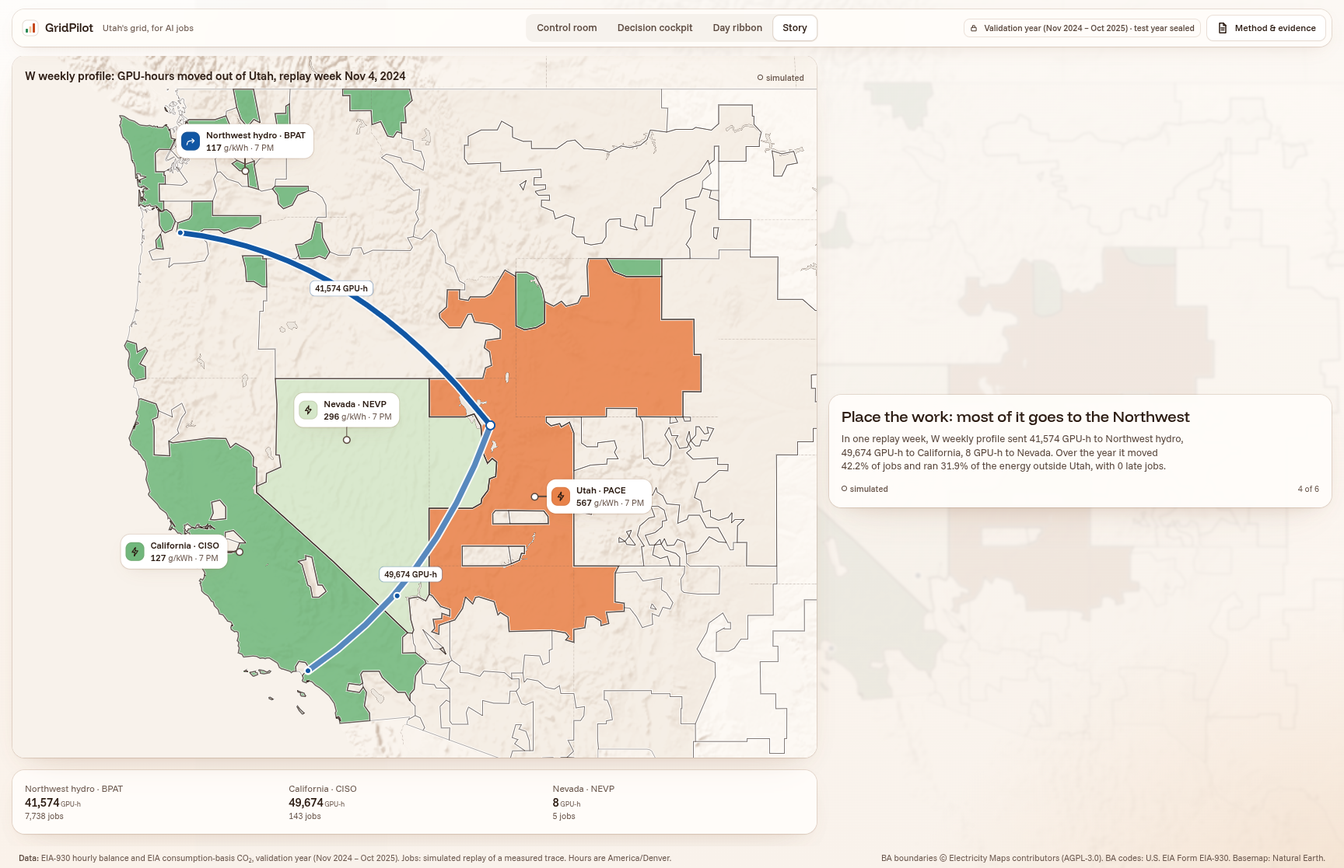
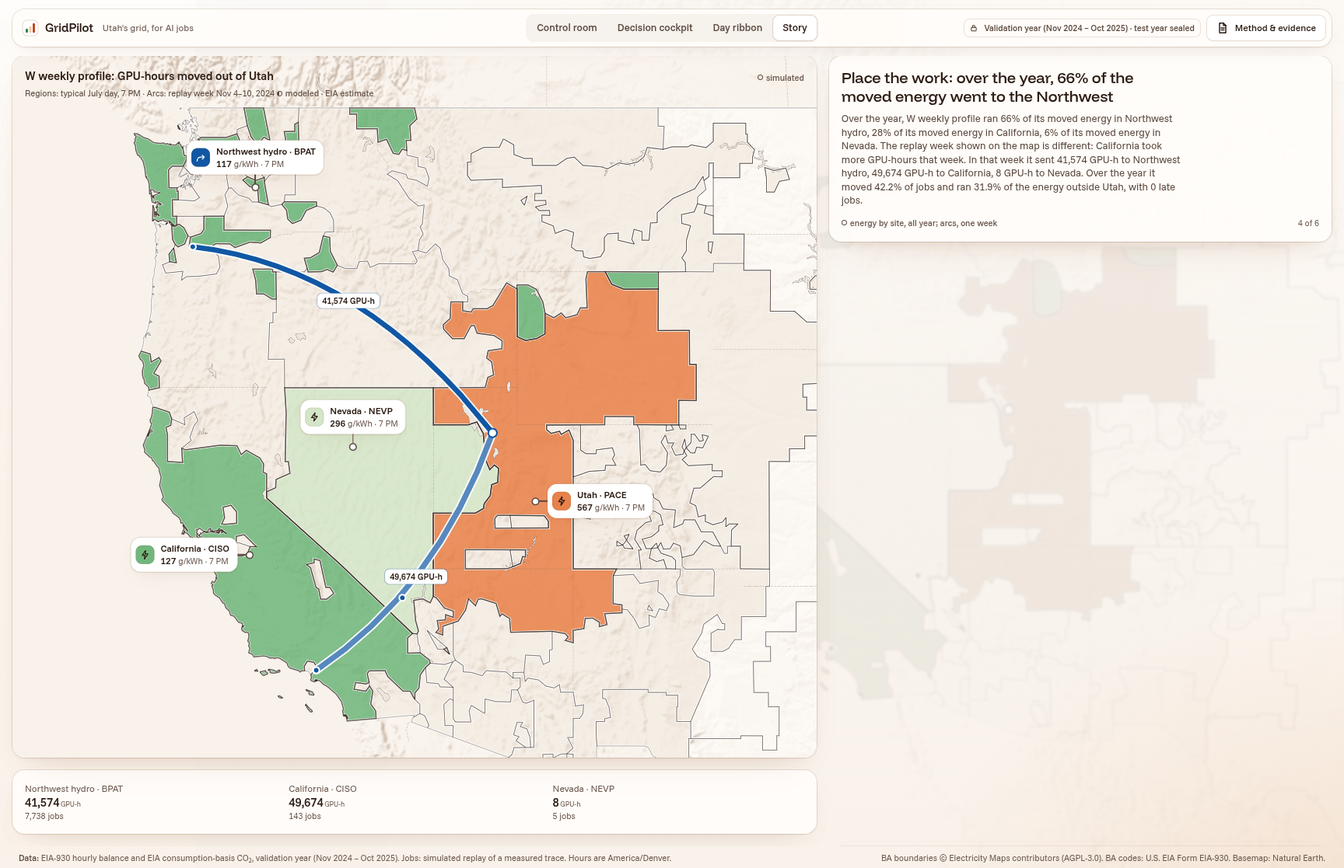
fix: dashboard fix round 2 (re-check N1-N15, #14, #19, #20)
- N1 Story 3 copy: the v2 rule was fixed before seeing the outcome, not registered in advance.
- N2 Story 4 title computed from W's execution_kwh_by_site over the year (66% to the
  Northwest), with a note that California took more GPU-hours in the replay week.
- N3/#20 right dock at 1440: the destinations section keeps >= 156 px; prose and key drop.
- N4 Story 5 shows every row at 1440 (tighter rows below 1000 px).
- #14 story cards anchored to the top; visuals shrink to their content.
- #19 labels: one collision pass (callouts, arc labels, cities, states, context codes, lake)
  against each other, the caption and the zoom buttons; no declutter slack under docks.
- N5 wait-without-gain wording; N6 Starts column in the placements table; N7 inset caption;
  N8 CISO callout inside the insets; N9 plain-language role titles; N10 rush band covers
  7-10 PM; N11 '0.06 GPU-hours'; N12 months derived from counts; N13 demand-envelope
  sentence; N14 no left-dock gap at 1440, Nevada strip visible at 1728; N15 forecast
  y-axis fits the data and is labelled.

Claude-Session: https://claude.ai/code/session_01DKgVtE8vSiTczfzdqoVFhE

diff --git a/web/src/views/Story.tsx b/web/src/views/Story.tsx
@@ -3,7 +3,8 @@ import { IntervalChart, Panel, PolicyTable } from '../components/charts';
 import { Ev, EvCI, Icon } from '../components/ui';
 import { DESTS, REGION, asNum, dayCurve, headline, plainLimitation, pname, type Core, type Json } from '../lib/data';
 import { argmax, cleanest, rushHours, spanLabel } from '../lib/derive';
-import { fmt, fmtDate, fmtHour, pct, pctRange } from '../lib/format';
+import { fmt, fmtDate, fmtHour, monthLabel, pct, pctRange } from '../lib/format';
+import { useViewport } from '../lib/useViewport';
 import { initialStep, useApp } from '../lib/store';
 import { WestMap, type ArcSpec } from '../map/WestMap';
 import { CarbonRibbon, ForecastPanel, LoadChart, YearHeat } from './Ribbon';
@@ -19,7 +20,21 @@ export function Story() {
   const jul = g.pace_july_weekday;
   const net: number[] = jul.net_load_mw.value;
   const k: number = g.pace_top100_net_load.k.value;
+  const cm: number[][] = g.pace_top100_net_load.counts_month_hour.value;
+  const hotMonths = g.months.filter((_: string, i: number) => cm[i].some((c) => c > 0));
+  const mName = (ym: string) => monthLabel(ym, true).split(' ')[0];
+  const monthSpan = hotMonths.length ? (hotMonths.length === 1 ? mName(hotMonths[0]) : `${mName(hotMonths[0])}–${mName(hotMonths[hotMonths.length - 1])}`) : '';
+  // N2: where W's moved (remote) execution energy went over the year
+  const byS = m.policies.W.metrics.execution_kwh_by_site as Record<string, { value: number }>;
+  const remote = DESTS.map((d) => [d, byS?.[d]?.value ?? 0] as const);
+  const remoteTot = remote.reduce((a, [, v]) => a + v, 0) || 1;
+  const topDest = [...remote].sort((a, b) => b[1] - a[1])[0];
+
   const box = useRef<HTMLDivElement>(null);
+  const ij: Json = data!.jobs.illustrative_job;
+  const w = data!.jobs.week.policies.W;
+  const wyear = m.policies.W.metrics;
+  const weekTop = [...w.arcs].sort((a: Json, b: Json) => b.gpu_h.value - a.gpu_h.value)[0];
   useEffect(() => {
     const st = initialStep ?? null;
     if (st && box.current) { const el = box.current.querySelector<HTMLElement>(`[data-step="${st}"]`); if (el) box.current.scrollTop = el.offsetTop - (box.current.clientHeight - el.offsetHeight) / 2; }
@@ -29,14 +44,12 @@ export function Story() {
     box.current?.querySelectorAll('[data-step]').forEach((s) => io.observe(s));
     return () => io.disconnect();
   }, [set]);
-  const ij: Json = data!.jobs.illustrative_job;
-  const w = data!.jobs.week.policies.W;
-  const wyear = m.policies.W.metrics;
+
   const top1 = wl.top.find((t: Json) => Math.abs(t.fraction.value - 0.01) < 1e-9) ?? wl.top[1];
   const steps: { t: string; body: React.ReactNode; ev: React.ReactNode }[] = [
     {
       t: "Utah's grid has a rush hour, and it comes after sunset",
-      body: <>On a July weekday demand peaks at {fmtHour(argmax(jul.demand_mw.value))}. Then the sun sets and solar drops away, so net load, the load the rest of the fleet must carry, keeps climbing to {fmtHour(argmax(net))} ({fmt(net[argmax(net)])} MW). All year, the {fmt(k)} highest net-load hours fall on June–September evenings, mostly {spanLabel(rush)}. The cleanest hours are {spanLabel(clean)}, while the sun is up.</>,
+      body: <>On a July weekday demand peaks at {fmtHour(argmax(jul.demand_mw.value))}. Then the sun sets and solar drops away, so net load, the load the rest of the fleet must carry, keeps climbing to {fmtHour(argmax(net))} ({fmt(net[argmax(net)])} MW). All year, the {fmt(k)} highest net-load hours fall on {monthSpan} evenings, mostly {spanLabel(rush)}. The cleanest hours are {spanLabel(clean)}, while the sun is up.</>,
       ev: <><Ev e="observed">load: EIA-930</Ev><EvCI /></>,
     },
     {
@@ -46,13 +59,13 @@ export function Story() {
     },
     {
       t: 'One job: stay, wait or move',
-      body: <>A {fmt(ij.gpus.value)}-GPU {ij.job_type} job of {ij.declared_duration_s.value < 3600 ? `${fmt(ij.declared_duration_s.value / 60, 1)} minutes` : `${fmt(ij.declared_duration_s.value / 3600, 1)} hours`} ({fmt(ij.declared_gpu_h.value, ij.declared_gpu_h.value < 1 ? 2 : 1)} GPU-h), arriving {fmtDate(ij.arrival, { month: 'short', day: 'numeric', hour: 'numeric', minute: '2-digit' })}. It may start up to {fmt(ij.max_delay_s.value / 3600)} h late. Moving it adds a transfer delay but lands it on a cleaner grid. It was picked by a rule registered in advance: the job at the GPU-hour-weighted median of the eligible flexible jobs.{ij.disclosure ? <details className="t-12 ink-3" style={{ marginTop: 8 }}><summary className="cursor-pointer fw-500">How this job was chosen (source text)</summary><span>{ij.disclosure}</span></details> : null}</>,
+      body: <>A {fmt(ij.gpus.value)}-GPU {ij.job_type} job of {ij.declared_duration_s.value < 3600 ? `${fmt(ij.declared_duration_s.value / 60, 1)} minutes` : `${fmt(ij.declared_duration_s.value / 3600, 1)} hours`} ({fmt(ij.declared_gpu_h.value, ij.declared_gpu_h.value < 1 ? 2 : 1)} GPU-h), arriving {fmtDate(ij.arrival, { month: 'short', day: 'numeric', hour: 'numeric', minute: '2-digit' })}. It may start up to {fmt(ij.max_delay_s.value / 3600)} h late. Moving it adds a transfer delay but lands it on a cleaner grid. It was picked by a rule fixed before seeing its outcome: the GPU-hour-weighted median of the eligible flexible jobs. The registered count-median job runs only 3 minutes; see how this job was chosen.{ij.disclosure ? <details className="t-12 ink-3" style={{ marginTop: 8 }}><summary className="cursor-pointer fw-500">How this job was chosen (source text)</summary><span>{ij.disclosure}</span></details> : null}</>,
       ev: <><Ev e="measured">job size</Ev><Ev e="modeled">option CO₂</Ev><Ev e="simulated">placements</Ev></>,
     },
     {
-      t: 'Place the work: most of it goes to the Northwest',
-      body: <>In one replay week, {pname('W')} sent {DESTS.map((d) => { const a = w.arcs.find((x: Json) => x.to === d); return a ? `${fmt(a.gpu_h.value)} GPU-h to ${REGION[d].name}` : null; }).filter(Boolean).join(', ')}. Over the year it moved {pct(wyear.moved_share_jobs.value)}% of jobs and ran {pct(wyear.remote_energy_share.value)}% of the energy outside Utah, with {fmt(wyear.late_jobs.value)} late jobs.</>,
-      ev: <Ev e="simulated" />,
+      t: `Place the work: over the year, ${pct(topDest[1] / remoteTot, 0)}% of the moved energy went to ${REGION[topDest[0]].name === 'Northwest hydro' ? 'the Northwest' : REGION[topDest[0]].name}`,
+      body: <>Over the year, {pname('W')} ran {remote.map(([d, v]) => `${pct(v / remoteTot, 0)}% of its moved energy in ${REGION[d].name}`).join(', ')}. {weekTop && weekTop.to !== topDest[0] ? <>The replay week shown on the map is different: {REGION[weekTop.to as Core].name} took more GPU-hours that week. </> : null}In that week it sent {DESTS.map((d) => { const a = w.arcs.find((x: Json) => x.to === d); return a ? `${fmt(a.gpu_h.value)} GPU-h to ${REGION[d].name}` : null; }).filter(Boolean).join(', ')}. Over the year it moved {pct(wyear.moved_share_jobs.value)}% of jobs and ran {pct(wyear.remote_energy_share.value)}% of the energy outside Utah, with {fmt(wyear.late_jobs.value)} late jobs.</>,
+      ev: <Ev e="simulated">energy by site, all year; arcs, one week</Ev>,
     },
     {
       t: 'The count: moving beats waiting',
@@ -72,9 +85,9 @@ export function Story() {
           <div className="sticky" style={{ top: 0, height: 'calc(100vh - 72px - 28px - 16px)' }}>
             <Visual step={step} rush={rush} clean={clean} curve={curve} />
           </div>
-          <div style={{ paddingBottom: '40vh' }}>
+          <div style={{ paddingBottom: '20vh' }}>
             {steps.map((s, i) => (
-              <div key={i} id={`story-${i + 1}`} data-step={i + 1} className="flex flex-col justify-center" style={{ minHeight: 'calc(100vh - 100px)' }}>
+              <div key={i} id={`story-${i + 1}`} data-step={i + 1} className="flex flex-col justify-start" style={{ minHeight: 'calc(100vh - 100px)', paddingTop: 0 }}>
                 <Panel style={{ opacity: step === i + 1 ? 1 : 0.55, transition: 'opacity 160ms var(--ease)' }}>
                   <h2 className="t-20" style={{ margin: 0 }}>{s.t}</h2>
                   <p className="t-13 ink-2" style={{ margin: '8px 0 0', maxWidth: '62ch' }}>{s.body}</p>
@@ -121,7 +134,7 @@ function JobCard() {
   const stay = acts.find((a) => a.kind === 'stay');
   const pl = ij.placements as Record<string, Json>;
   return (
-    <Panel className="h-full flex flex-col" style={{ gap: 16 }}>
+    <Panel className="flex flex-col" style={{ gap: 16, maxHeight: '100%', overflow: 'auto' }}>
       <div className="flex items-baseline justify-between"><span className="t-15">Job {ij.job_uid}: its options</span><Ev e="modeled">option CO₂</Ev></div>
       <table className="tbl">
         <thead><tr><th>Option</th><th>Starts (Denver)</th><th>Start delay (transfer)</th><th>CO₂ <span className="fw-400">kg</span></th><th>vs staying</th></tr></thead>
@@ -141,7 +154,7 @@ function JobCard() {
       <hr className="rule" />
       <div className="flex items-baseline justify-between"><span className="t-15">Where each policy put it</span><Ev e="simulated" /></div>
       <table className="tbl">
-        <thead><tr><th>Policy</th><th>Decision</th><th>CO₂ <span className="fw-400">kg</span></th></tr></thead>
+        <thead><tr><th>Policy</th><th>Decision</th><th>Starts (Denver)</th><th>CO₂ <span className="fw-400">kg</span></th></tr></thead>
         <tbody>
           {Object.keys(pl).map((p) => {
             const v = pl[p];
@@ -149,6 +162,7 @@ function JobCard() {
               <tr key={p}>
                 <td title={m.policies?.[p]?.note}>{pname(p)}</td>
                 <td>{v.site === 'PACE' ? (v.moved ? 'waited in Utah' : 'stayed in Utah') : `moved to ${REGION[v.site as Core]?.name ?? v.site}`}</td>
+                <td>{v.start ? fmtDate(v.start, { month: 'short', day: 'numeric', hour: 'numeric', minute: '2-digit' }) : '–'}</td>
                 <td>{fmt(v.co2_kg.value, v.co2_kg.value < 1 ? 3 : 1)}</td>
               </tr>
             );
@@ -173,11 +187,12 @@ function PlaceWork() {
     <div className="grid h-full" style={{ gridTemplateRows: 'minmax(0,1fr) auto', gap: 16 }}>
       <Panel className="relative overflow-hidden" style={{ padding: 0 }}>
         <WestMap id="map-story" variant="inset" interactive={false} ci={ci} context={context} hourLabel={fmtHour(hour)} arcs={arcs}
-          bounds={[[-124.6, 31.8], [-104.5, 48.9]]} padding={{ top: 48, bottom: 12, left: 12, right: 12 }} />
+          bounds={[[-124.6, 31.8], [-104.0, 48.9]]} padding={{ top: 72, bottom: 16, left: 150, right: 120 }} />
         <div className="absolute flex items-baseline justify-between gap-2" style={{ left: 16, right: 16, top: 16 }}>
-          <span className="t-15">{pname('W')}: GPU-hours moved out of Utah, replay week {fmtDate(data!.jobs.week.start, { month: 'short', day: 'numeric', year: 'numeric' })}</span>
+          <span className="t-15">{pname('W')}: GPU-hours moved out of Utah</span>
           <Ev e="simulated" />
         </div>
+        <div className="absolute t-11 ink-2" style={{ left: 16, top: 40 }}>Regions: typical {monthLabel(month, true).split(' ')[0]} day, {fmtHour(hour)} · Arcs: replay week {fmtDate(data!.jobs.week.start, { month: 'short', day: 'numeric' })}–{fmtDate(new Date(new Date(data!.jobs.week.end).getTime() - 1).toISOString(), { day: 'numeric' })}, {fmtDate(data!.jobs.week.start, { year: 'numeric' })} <EvCI /></div>
       </Panel>
       <Panel>
         <div className="grid t-13" style={{ gridTemplateColumns: 'repeat(3, minmax(0,1fr))', gap: 16 }}>
@@ -193,10 +208,11 @@ function PlaceWork() {
 function Count() {
   const { data } = useApp();
   const m = data!.metrics, wl = data!.workload;
+  const tight = useViewport().h < 1000;
   return (
-    <Panel className="h-full flex flex-col" style={{ gap: 12 }}>
+    <Panel className={`flex flex-col ${tight ? 'tight' : ''}`} style={{ gap: tight ? 8 : 12, maxHeight: '100%', overflow: 'auto' }}>
       <span className="t-15">Saving in attributed CO₂ vs U local (stay in Utah), with 95% intervals</span>
-      <IntervalChart m={m} rows={['G', 'S', 'K', 'W', 'L', 'H', 'W_time', 'L_time']} rowH={26} />
+      <IntervalChart m={m} rows={['G', 'S', 'K', 'W', 'L', 'H', 'W_time', 'L_time']} rowH={tight ? 20 : 26} />
       <div className="t-12 ink-3">Filled dots: the four placement policies. Open dots: {pname('G')}, the two wait-only runs, and the dashed {pname('H')}. <Ev e="simulated" /></div>
       <div style={{ overflowX: 'auto' }}><PolicyTable m={m} /></div>
       <hr className="rule" />
@@ -210,7 +226,7 @@ function Count() {
             ))}
           </tbody>
         </table>
-        <div className="t-12 ink-3" style={{ marginTop: 4 }}>{pct(wl.share_jobs_under_1_gpu_h.value, 0)}% of jobs use under 1 GPU-hour; the median job uses {fmt(wl.median_gpu_h.value, 2)}. <Ev e="measured">sizes</Ev> <Ev e="simulated">energy and saving</Ev></div>
+        <div className="t-12 ink-3" style={{ marginTop: 4 }}>{pct(wl.share_jobs_under_1_gpu_h.value, 0)}% of jobs use under 1 GPU-hour; the median job uses {fmt(wl.median_gpu_h.value, 2)} GPU-hours. <Ev e="measured">sizes</Ev> <Ev e="simulated">energy and saving</Ev></div>
       </div>
     </Panel>
   );
@@ -220,7 +236,7 @@ function Limits() {
   const { data } = useApp();
   const lim: string[] = data!.manifest.limitations;
   return (
-    <Panel className="h-full flex flex-col" style={{ gap: 12, overflow: 'auto' }}>
+    <Panel className="flex flex-col" style={{ gap: 12, overflow: 'auto', maxHeight: '100%' }}>
       <span className="t-15">What the result does not say</span>
       <ul className="t-13" style={{ margin: 0, paddingLeft: 16, columns: 2, columnGap: 32 }}>
         {lim.map((l) => <li key={l} style={{ marginBottom: 8, breakInside: 'avoid' }}>{plainLimitation(l)}</li>)}

diff --git a/web/src/views/Ribbon.tsx b/web/src/views/Ribbon.tsx
@@ -58,30 +58,30 @@ export function Ribbon() {
 
 export function LoadChart({ rush, clean, dem, net, sol }: { rush: [number, number]; clean: [number, number]; dem: number[]; net: number[]; sol: number[] }) {
   const option = useMemo(() => {
-    const hours = Array.from({ length: 24 }, (_, i) => fmtHour(i));
+    const at = (a: number[]) => a.map((v, i) => [i + 0.5, v]);
     const pk = argmax(net), dk = argmax(dem);
     const ymax = Math.ceil((Math.max(...dem) + 1500) / 3000) * 3000;
     const yb = ymax * 0.94, tick = ymax * 0.03;
     const sk = sol.indexOf(Math.max(...sol));
     return {
       grid: { left: LX, right: RX, top: 16, bottom: 8 },
-      xAxis: { type: 'category', data: hours, boundaryGap: true, axisLabel: { show: false }, axisLine: { show: false } },
+      xAxis: { type: 'value', min: 0, max: 24, axisLabel: { show: false }, axisLine: { show: false }, splitLine: { show: false }, axisPointer: { label: { show: false } } },
       yAxis: { type: 'value', min: 0, max: ymax, interval: 3000, axisLabel: { formatter: (v: number) => (v ? `${v / 1000}k` : '0') } },
-      tooltip: { trigger: 'axis', valueFormatter: (v: number) => `${fmt(v)} MW` },
+      tooltip: { trigger: 'axis', valueFormatter: (v: number) => `${fmt(v)} MW`, formatter: (ps: { value: [number, number]; seriesName: string; marker: string }[]) => `${fmtHour(Math.floor(ps[0].value[0]))}<br/>${ps.map((q) => `${q.marker}${q.seriesName} ${fmt(q.value[1])} MW`).join('<br/>')}` },
       series: [
-        { name: 'Solar', type: 'line', data: sol.map((v) => Math.max(0, v)), areaStyle: { color: C.solar, opacity: 0.8 }, lineStyle: { width: 0 }, symbol: 'none', z: 1,
-          markPoint: { symbol: 'circle', symbolSize: 0, label: { show: true, formatter: 'Solar', color: C.solarInk, fontSize: 12, fontWeight: 600, position: 'inside' }, data: [{ coord: [sk, Math.max(...sol) * 0.45] }] },
-          markArea: { silent: true, itemStyle: { color: 'rgba(234,223,211,.45)' }, label: { show: true, position: 'insideTop', color: C.ink, fontSize: 11, fontWeight: 600, formatter: `Rush ${spanLabel(rush)}` }, data: [[{ xAxis: rush[0] }, { xAxis: rush[1] - 1 }]] } },
-        { name: 'Demand', type: 'line', data: dem, lineStyle: { color: C.ink3, width: 1.5 }, symbol: 'none', z: 3, endLabel: { show: true, formatter: 'Demand', color: C.ink2, fontSize: 12, offset: [8, 0] },
-          markPoint: { symbol: 'circle', symbolSize: 7, itemStyle: { color: C.ink3, borderColor: '#fff', borderWidth: 2 }, label: { show: true, position: 'bottom', color: C.ink2, fontSize: 11, formatter: `Demand peaks ${fmtHour(dk)}` }, data: [{ coord: [dk, dem[dk]] }] } },
-        { name: 'Net load', type: 'line', data: net, lineStyle: { color: C.ink, width: 2.25 }, symbol: 'none', z: 4, endLabel: { show: true, formatter: 'Net load', color: C.ink, fontSize: 12, fontWeight: 600, offset: [8, 0] },
-          markPoint: { symbol: 'circle', symbolSize: 8, itemStyle: { color: C.ink, borderColor: '#fff', borderWidth: 2 }, label: { show: true, position: 'left', distance: 8, color: C.ink, fontSize: 11, fontWeight: 600, formatter: `Net load peaks ${fmtHour(pk)} · ${fmt(net[pk])} MW` }, data: [{ coord: [pk, net[pk]] }] },
+        { name: 'Solar', type: 'line', data: at(sol.map((v) => Math.max(0, v))), areaStyle: { color: C.solar, opacity: 0.8 }, lineStyle: { width: 0 }, symbol: 'none', z: 1,
+          markPoint: { symbol: 'circle', symbolSize: 0, label: { show: true, formatter: 'Solar', color: C.solarInk, fontSize: 12, fontWeight: 600, position: 'inside' }, data: [{ coord: [sk + 0.5, Math.max(...sol) * 0.45] }] },
+          markArea: { silent: true, itemStyle: { color: 'rgba(234,223,211,.45)' }, label: { show: true, position: 'insideTop', color: C.ink, fontSize: 11, fontWeight: 600, formatter: `Rush ${spanLabel(rush)}` }, data: [[{ xAxis: rush[0] }, { xAxis: rush[1] }]] } },
+        { name: 'Demand', type: 'line', data: at(dem), lineStyle: { color: C.ink3, width: 1.5 }, symbol: 'none', z: 3, endLabel: { show: true, formatter: 'Demand', color: C.ink2, fontSize: 12, offset: [8, 0] },
+          markPoint: { symbol: 'circle', symbolSize: 7, itemStyle: { color: C.ink3, borderColor: '#fff', borderWidth: 2 }, label: { show: true, position: 'bottom', color: C.ink2, fontSize: 11, formatter: `Demand peaks ${fmtHour(dk)}` }, data: [{ coord: [dk + 0.5, dem[dk]] }] } },
+        { name: 'Net load', type: 'line', data: at(net), lineStyle: { color: C.ink, width: 2.25 }, symbol: 'none', z: 4, endLabel: { show: true, formatter: 'Net load', color: C.ink, fontSize: 12, fontWeight: 600, offset: [8, 0] },
+          markPoint: { symbol: 'circle', symbolSize: 8, itemStyle: { color: C.ink, borderColor: '#fff', borderWidth: 2 }, label: { show: true, position: 'left', distance: 8, color: C.ink, fontSize: 11, fontWeight: 600, formatter: `Net load peaks ${fmtHour(pk)} · ${fmt(net[pk])} MW` }, data: [{ coord: [pk + 0.5, net[pk]] }] },
           // the cleanest stretch as a bracket, so it never tints the data
           markLine: { silent: true, symbol: 'none', lineStyle: { color: C.ink3, width: 1, type: 'solid' }, label: { show: false },
             data: [
-              [{ coord: [clean[0], yb], label: { show: true, position: 'middle', formatter: `Cleanest 8 hours ${spanLabel(clean)}`, color: C.ink, fontSize: 11, fontWeight: 600, distance: 4 } }, { coord: [clean[1] - 1, yb] }],
+              [{ coord: [clean[0], yb], label: { show: true, position: 'middle', formatter: `Cleanest 8 hours ${spanLabel(clean)}`, color: C.ink, fontSize: 11, fontWeight: 600, distance: 4 } }, { coord: [clean[1], yb] }],
               [{ coord: [clean[0], yb] }, { coord: [clean[0], yb - tick] }],
-              [{ coord: [clean[1] - 1, yb] }, { coord: [clean[1] - 1, yb - tick] }],
+              [{ coord: [clean[1], yb] }, { coord: [clean[1], yb - tick] }],
             ] } },
       ],
     };
@@ -129,9 +129,10 @@ export function ForecastPanel() {
     const style: Record<string, [string, number[] | 'solid', number]> = { K: [C.ink3, [1, 3], 1.5], W: [C.ink3, [5, 3], 1.5], L: [C.ink2, 'solid', 1.5] };
     const L: (number | null)[] = fr.forecasts.L.value;
     return {
-      grid: { left: 40, right: 12, top: 12, bottom: 24 },
+      grid: { left: 56, right: 12, top: 12, bottom: 24 },
       xAxis: { type: 'category', data: lab, boundaryGap: false, axisLabel: { interval: 23, formatter: (v: string) => v.split(',')[0] } },
-      yAxis: { type: 'value', min: 0, max: 900, interval: 300 },
+      yAxis: { type: 'value', min: (e: { min: number }) => Math.floor((e.min - 20) / 200) * 200, max: (e: { max: number }) => Math.ceil((e.max + 20) / 200) * 200, interval: 200,
+        name: 'g CO₂/kWh', nameLocation: 'middle', nameRotate: 90, nameGap: 40, nameTextStyle: { color: C.ink3, fontSize: 11 } },
       tooltip: { trigger: 'axis', valueFormatter: (v: number) => (v == null ? '–' : `${Math.round(v)} g/kWh`) },
       series: [
         // L ± its week MAE, drawn as a stacked band (the lower edge is invisible)
@@ -152,7 +153,6 @@ export function ForecastPanel() {
         <Ev e="forecast" /><EvCI extra="actual" /><Ev e="measured">errors measured</Ev>
       </div>
       <div className="flex flex-wrap gap-x-4 gap-y-1 t-11 ink-2" style={{ marginTop: 4 }} aria-hidden="true">
-        <span>g CO₂/kWh:</span>
         <span className="flex items-center gap-1"><svg width="20" height="6"><line x1="0" x2="20" y1="3" y2="3" stroke={C.ink} strokeWidth="2" /></svg>actual</span>
         <span className="flex items-center gap-1"><svg width="20" height="8"><rect x="0" y="0" width="20" height="8" fill="rgba(91,73,63,.12)" /><line x1="0" x2="20" y1="4" y2="4" stroke={C.ink2} strokeWidth="1.5" /></svg>{pname('L')} ± {fmt(maeL)}</span>
         <span className="flex items-center gap-1"><svg width="20" height="6"><line x1="0" x2="20" y1="3" y2="3" stroke={C.ink3} strokeWidth="1.5" strokeDasharray="5 3" /></svg>{pname('W')}</span>

diff --git a/web/src/views/ControlRoom.tsx b/web/src/views/ControlRoom.tsx
@@ -62,15 +62,15 @@ function ResultDock({ compact }: { compact: boolean }) {
           <span className="fw-500 whitespace-nowrap" style={{ color: C.ink }}>Saving vs U, 95% interval</span>
           <span className="t-11 ink-3 whitespace-nowrap">{fmt(h.nWeeks.value as number)} weeks <Ev e="simulated" /></span>
         </div>
-        <IntervalChart m={m} rows={['S', 'K', 'W', 'L', 'W_time', 'L_time']} stacked rowH={compact ? 26 : 30} />
+        <IntervalChart m={m} rows={['S', 'K', 'W', 'L', 'W_time', 'L_time']} stacked rowH={26} />
       </div>
       <hr className="rule" />
-      {compact ? <div style={{ flex: 1 }} /> : (<>
+      {compact ? null : (<>
       <div className="flex items-baseline justify-between" style={{ padding: '12px 16px 4px' }}>
         <span className="t-15 whitespace-nowrap">The four sites, {fmtHour(hour)}</span>
         <EvCI />
       </div>
-      <ul className="flex flex-col" style={{ listStyle: 'none', margin: 0, padding: '0 8px 8px', gap: 2, overflow: 'auto', flex: 1 }}>
+      <ul className="flex flex-col" style={{ listStyle: 'none', margin: 0, padding: '0 8px 4px', gap: 0, overflow: 'auto', flex: 1 }}>
         {CORE.map((c) => {
           const curve = dayCurve(g, c, month);
           const ym = asNum(yearMean(g, c))!;
@@ -104,7 +104,7 @@ function MapCaption({ left, bottom }: { left: number; bottom: number }) {
   const { data, hour, month, arcPolicy } = useApp();
   const wk = data!.jobs.week;
   return (
-    <div className="pointer-events-auto absolute panel over-map t-11 ink-2" style={{ left, bottom, padding: '8px 12px', borderRadius: 12, maxWidth: 440 }}>
+    <div data-map-avoid className="pointer-events-auto absolute panel over-map t-11 ink-2" style={{ left, bottom, padding: '8px 12px', borderRadius: 12, maxWidth: 440 }}>
       The four sites are coloured by carbon at {fmtHour(hour)} on a typical {monthLabel(month, true)} day <EvCI />; other regions are context only.
       Arcs: GPU-hours {pname(arcPolicy)} moved out of Utah in the replay week {weekSpan(wk)}, wider for more <Ev e="simulated" />. Scroll or pinch to zoom; drag to pan.
     </div>
@@ -148,18 +148,18 @@ function RouterDock({ compact }: { compact: boolean }) {
   const slots = data!.manifest.assumptions;
   return (
     <Panel over className="flex flex-col" style={{ height: '100%', padding: 0, overflow: 'hidden' }}>
-      <div style={{ padding: 16 }}>
+      <div style={{ padding: compact ? '12px 16px 8px' : 16, overflow: 'auto', minHeight: 0, flexShrink: 1 }}>
         <h2 className="t-15" style={{ margin: 0 }}>Every policy did the same work, with no late jobs</h2>
-        <div className="t-12 ink-2" style={{ marginTop: 4 }}>Attributed CO₂, {fmt(m.cohort.n_jobs.value)} jobs, {fmt(m.cohort.declared_gpu_h.value / 1e6, 2)} M GPU-h. U − policy above zero: the policy emits less.</div>
-        <div className="t-11 ink-3" style={{ marginTop: 4 }}>Key: S, K, W, L and H may move or delay work; G is carbon-blind; wait-only may not move. Hover a name for its rule.</div>
+        {!compact && <div className="t-12 ink-2" style={{ marginTop: 4 }}>Attributed CO₂, {fmt(m.cohort.n_jobs.value)} jobs, {fmt(m.cohort.declared_gpu_h.value / 1e6, 2)} M GPU-h. U − policy above zero: the policy emits less.</div>}
+        {!compact && <div className="t-11 ink-3" style={{ marginTop: 4 }}>Key: S, K, W, L and H may move or delay work; G is carbon-blind; wait-only may not move. Hover a name for its rule.</div>}
         <div style={{ marginTop: 8 }}><PolicyTable m={m} compact testId="policy-table-compact" /></div>
         <div className="flex gap-3 flex-wrap" style={{ marginTop: 8 }}><Ev e="simulated">outcomes simulated</Ev><Ev e="measured">job sizes measured</Ev></div>
       </div>
       <hr className="rule" />
-      <div style={{ padding: 16, flex: 1, minHeight: 0, overflow: 'auto' }}>
+      <div style={{ padding: compact ? '12px 16px' : 16, flex: compact ? 'none' : 1, minHeight: compact ? 156 : 140, overflow: 'auto' }}>
         <div className="flex items-center justify-between gap-2">
-          <h2 className="t-15" style={{ margin: 0 }}>Where the work went</h2>
-          <select className="sel" aria-label="Policy shown on the map" value={arcPolicy} onChange={(e) => set({ arcPolicy: e.target.value as 'S' | 'W' | 'L' })} title={pnote(m, arcPolicy)}>
+          <h2 className="t-15 whitespace-nowrap" style={{ margin: 0 }}>Where the work went</h2>
+          <select className="sel" style={{ maxWidth: '55%', minWidth: 0 }} aria-label="Policy shown on the map" value={arcPolicy} onChange={(e) => set({ arcPolicy: e.target.value as 'S' | 'W' | 'L' })} title={pnote(m, arcPolicy)}>
             {(['S', 'W', 'L'] as const).map((p) => <option key={p} value={p}>{pname(p)}</option>)}
           </select>
         </div>

diff --git a/web/src/map/WestMap.tsx b/web/src/map/WestMap.tsx
@@ -127,24 +127,31 @@ export function WestMap(p: MapProps) {
   };
 
   // Labels show by zoom, and only inside the window the docks leave free (no callouts under panels).
+  // Labels show by zoom, only when their whole box sits in the window the docks leave free, and
+  // never on top of another shown label or an overlay marked data-map-avoid (caption, zoom buttons).
+  // Priority: region callouts, then arc labels, cities, states, context-region codes, the lake.
   const declutter = () => {
     const m = map.current; if (!m) return;
     const z = m.getZoom(), q = props.current;
-    const W = m.getContainer().clientWidth, H = m.getContainer().clientHeight;
+    const H = m.getContainer().clientHeight;
     const pad = q.padding ?? { top: 0, bottom: 0, left: 0, right: 0 };
     const box0 = m.getContainer().getBoundingClientRect();
-    // a label shows only if its whole box sits in the window the docks leave free
-    const fits = (node: HTMLElement) => {
+    const win = { l: box0.left + pad.left, r: box0.right - pad.right, t: box0.top + pad.top, b: box0.top + H - pad.bottom };
+    const inWin = (r: DOMRect) => r.left >= win.l && r.right <= win.r && r.top >= win.t && r.bottom <= win.b;
+    const inBox = (r: DOMRect) => r.left >= box0.left && r.right <= box0.right && r.top >= box0.top && r.bottom <= box0.bottom;
+    const taken: DOMRect[] = q.variant === 'main' ? [...document.querySelectorAll<HTMLElement>('[data-map-avoid]')].map((e) => e.getBoundingClientRect()) : [];
+    const hit = (r: DOMRect) => taken.some((t) => r.left < t.right + 2 && r.right > t.left - 2 && r.top < t.bottom + 2 && r.bottom > t.top - 2);
+    const show = (node: HTMLElement, ok: boolean) => {
+      node.style.display = '';
       const r = node.getBoundingClientRect();
-      return r.left >= box0.left + pad.left - 32 && r.right <= box0.right - pad.right + 64 && r.top >= box0.top + pad.top - 32 && r.bottom <= box0.top + H - pad.bottom + 16;
+      if (!ok || !(q.variant === 'inset' ? inBox(r) : inWin(r)) || hit(r)) { node.style.display = 'none'; return; }
+      taken.push(r);
     };
-    void W;
-    for (const l of labels.current) {
-      if (z < l.minZoom) { l.el.style.display = 'none'; continue; }
-      l.el.style.display = '';
-      if (!l.always && !fits(l.el)) l.el.style.display = 'none';
-    }
-    for (const a of arcEls.current) { const n = a.mk.getElement(); n.style.display = ''; if (!fits(n)) n.style.display = 'none'; }
+    const rank = (l: Lbl) => (l.el.classList.contains('mk-callout') ? 0 : l.el.classList.contains('mk-city') ? 2 : l.el.classList.contains('mk-state') ? 3 : l.el.classList.contains('mk-ba') ? 4 : 5);
+    const callouts = labels.current.filter((l) => rank(l) === 0);
+    for (const l of callouts) show(l.el, z >= l.minZoom);
+    for (const a of arcEls.current) show(a.mk.getElement(), true);
+    for (const l of labels.current.filter((x) => rank(x) > 0).sort((x, y) => rank(x) - rank(y))) show(l.el, z >= l.minZoom);
   };
 
   useEffect(() => {
@@ -295,7 +302,7 @@ export function WestMap(p: MapProps) {
         </div>
       )}
       {p.variant === 'main' && p.interactive && (
-        <div className="absolute flex flex-col gap-2" style={{ right: (p.padding?.right ?? 16) - 48, bottom: (p.padding?.bottom ?? 16) + 0 }}>
+        <div data-map-avoid className="absolute flex flex-col gap-2" style={{ right: (p.padding?.right ?? 16) - 48, bottom: (p.padding?.bottom ?? 16) + 0 }}>
           <button className="iconbtn" aria-label="Zoom in" onClick={() => map.current?.zoomIn({ duration: still() ? 0 : 200 })}><Icon name="plus" /></button>
           <button className="iconbtn" aria-label="Zoom out" onClick={() => map.current?.zoomOut({ duration: still() ? 0 : 200 })}><Icon name="minus" /></button>
           <button className="iconbtn" aria-label="Reset to the West" title="Reset to the West" onClick={() => fit(true)}><Icon name="reset" /></button>

diff --git a/web/src/lib/data.ts b/web/src/lib/data.ts
@@ -59,12 +59,24 @@ export const NAME: Record<string, string> = {
   L_time: 'L wait-only',
 };
 export const pname = (p: string) => NAME[p] ?? p;
-export const pnote = (m: Json, p: string): string => m.policies?.[p]?.note ?? '';
+/** Plain-language rule of each policy, for hover titles (N9). */
+const ROLE: Record<string, string> = {
+  U: 'Runs every job at its Utah reservation, first come, first served. The baseline.',
+  G: 'Runs each job wherever it would finish earliest. Ignores carbon.',
+  S: 'Sends work to the cleanest site by a fixed ranking from past years.',
+  K: 'Searches for the cleanest time and site, using a seasonal-average forecast of carbon.',
+  W: 'Searches for the cleanest time and site, using a weekly-profile forecast of carbon.',
+  L: 'Searches for the cleanest time and site, using the learned forecast model.',
+  H: 'The same search with perfect hindsight of actual carbon. A check, never a contender.',
+  W_time: 'Like W weekly profile, but may only wait in Utah, never move.',
+  L_time: 'Like L learned model, but may only wait in Utah, never move.',
+};
+export const pnote = (_m: Json, p: string): string => ROLE[p] ?? '';
 export const POLICY_ORDER = ['U', 'G', 'S', 'K', 'W', 'L', 'H', 'W_time', 'L_time'];
 
 /** Plain-language limitations (lead ruling R7). Matched on the manifest text; the verbatim text stays behind "Source text". */
 const PLAIN: [RegExp, string][] = [
-  [/^Publication-lagged replay/i, "Forecasts were replayed on today's revised copy of EIA's historical data, with publication delays applied. The exact data available on each past day were not reconstructed, and the delay rules are our assumptions."],
+  [/^Publication-lagged replay/i, "Forecasts were replayed on today's revised copy of EIA's historical data, with publication delays applied. The exact data available on each past day were not reconstructed, and the delay rules are our assumptions. The two-hour delay assumed for EIA's adjusted demand has not been checked against EIA's own timing."],
   [/imports from Canada and Mexico/i, 'Electricity imported from Canada and Mexico is counted at the US average carbon rate, as EIA does.'],
   [/emission factors may be a provisional/i, "EIA's emission factors for 2025–26 may still be provisional."],
   [/^Baseline bookings/i, 'Every job holds an advance reservation at its home site, built from the baseline run. This is a planning scenario, not a replay of a real online scheduler.'],

diff --git a/web/src/views/Cockpit.tsx b/web/src/views/Cockpit.tsx
@@ -109,9 +109,9 @@ export function Cockpit() {
       <div className="grid min-h-0" style={{ gridTemplateRows: short ? 'minmax(0,1fr) auto' : 'minmax(0,1fr)', gap: 16 }}>
         <Panel className="relative overflow-hidden" style={{ padding: 0 }}>
           <WestMap id="map-inset" variant="inset" interactive={false} ci={ci} context={context} hourLabel={fmtHour(s.hour)} arcs={arcs} ring={mode === 'wait'}
-            bounds={[[-127.8, 31.4], [-101.2, 49.0]]} padding={{ top: 52, bottom: 12, left: 12, right: 12 }} />
+            bounds={[[-124.6, 31.4], [-104.0, 49.0]]} padding={{ top: 56, bottom: 16, left: 150, right: 120 }} />
           <div className="absolute flex items-baseline justify-between gap-2" style={{ left: 16, right: 16, top: 16 }}>
-            <span className="t-15">{mode === 'move' ? `Utah to ${REGION[dest].name}` : mode === 'wait' ? `Held in Utah until ${fmtHour(p.wait.s)}` : 'Runs in Utah now'}</span>
+            <span className="t-15">{mode === 'move' ? `Utah to ${REGION[dest].name}` : mode === 'wait' ? (p.wait.d ? `Held in Utah until ${fmtHour(p.wait.s)}` : `Runs in Utah at ${fmtHour(p.a)}; waiting does not help`) : 'Runs in Utah now'}</span>
             <EvCI extra={fmtHour(s.hour)} />
           </div>
         </Panel>

diff --git a/web/src/styles.css b/web/src/styles.css
@@ -136,8 +136,8 @@ table.tbl tr.em td { font-weight: 600; }
 table.tbl tr.diag td { color: var(--ink-3); }
 table.tbl-stacked th { text-align: right; }
 table.tbl-stacked th:first-child { text-align: left; }
-table.tbl-stacked tr.name td { text-align: left; padding: 6px 0 0; border-top: 1px solid var(--hair-2); font-weight: 500; white-space: normal; }
-table.tbl-stacked tr.vals td { border-top: 0; padding: 0 8px 6px; }
+table.tbl-stacked tr.name td { text-align: left; padding: 4px 0 0; border-top: 1px solid var(--hair-2); font-weight: 500; white-space: normal; }
+table.tbl-stacked tr.vals td { border-top: 0; padding: 0 8px 4px; }
 table.tbl-stacked tr.vals td:first-child { text-align: left; padding-left: 0; color: var(--ink-2); }
 table.tbl-stacked tbody.em td { font-weight: 600; }
 
@@ -175,3 +175,6 @@ table.tbl-stacked tbody.em td { font-weight: 600; }
 @media (prefers-reduced-motion: reduce) {
   *, *::before, *::after { transition-duration: 0ms !important; animation: none !important; scroll-behavior: auto !important; }
 }
+
+/* tight tables below 1000 px of height (story 5) */
+.tight table.tbl td { padding-top: 3px; padding-bottom: 3px; }
